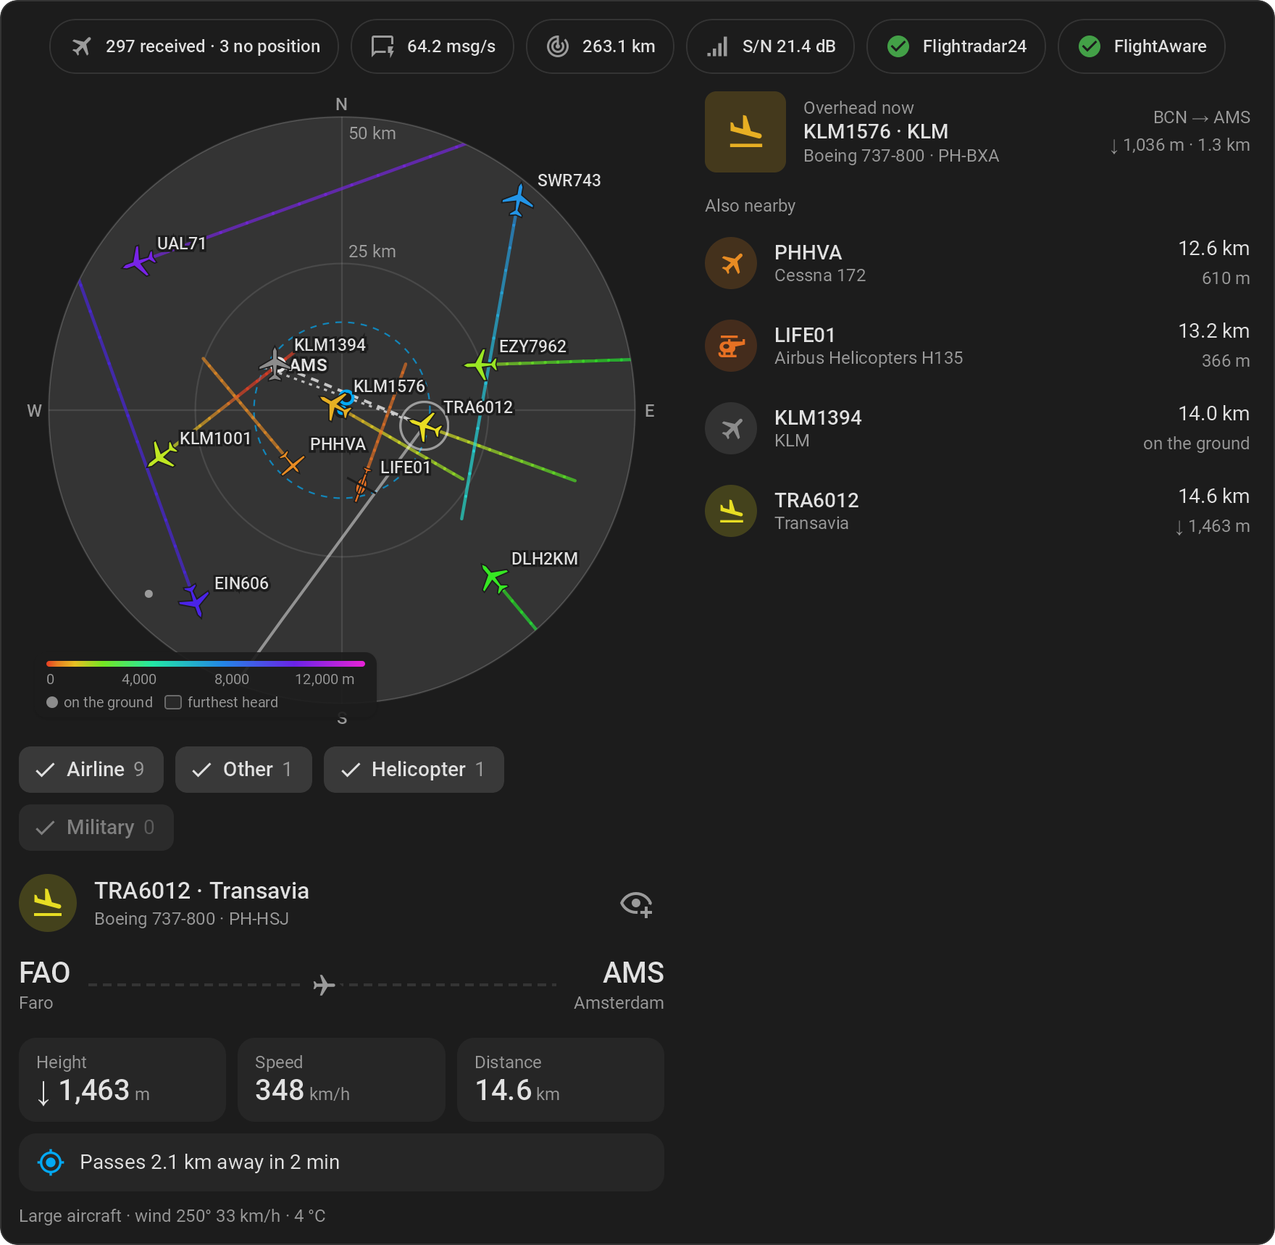
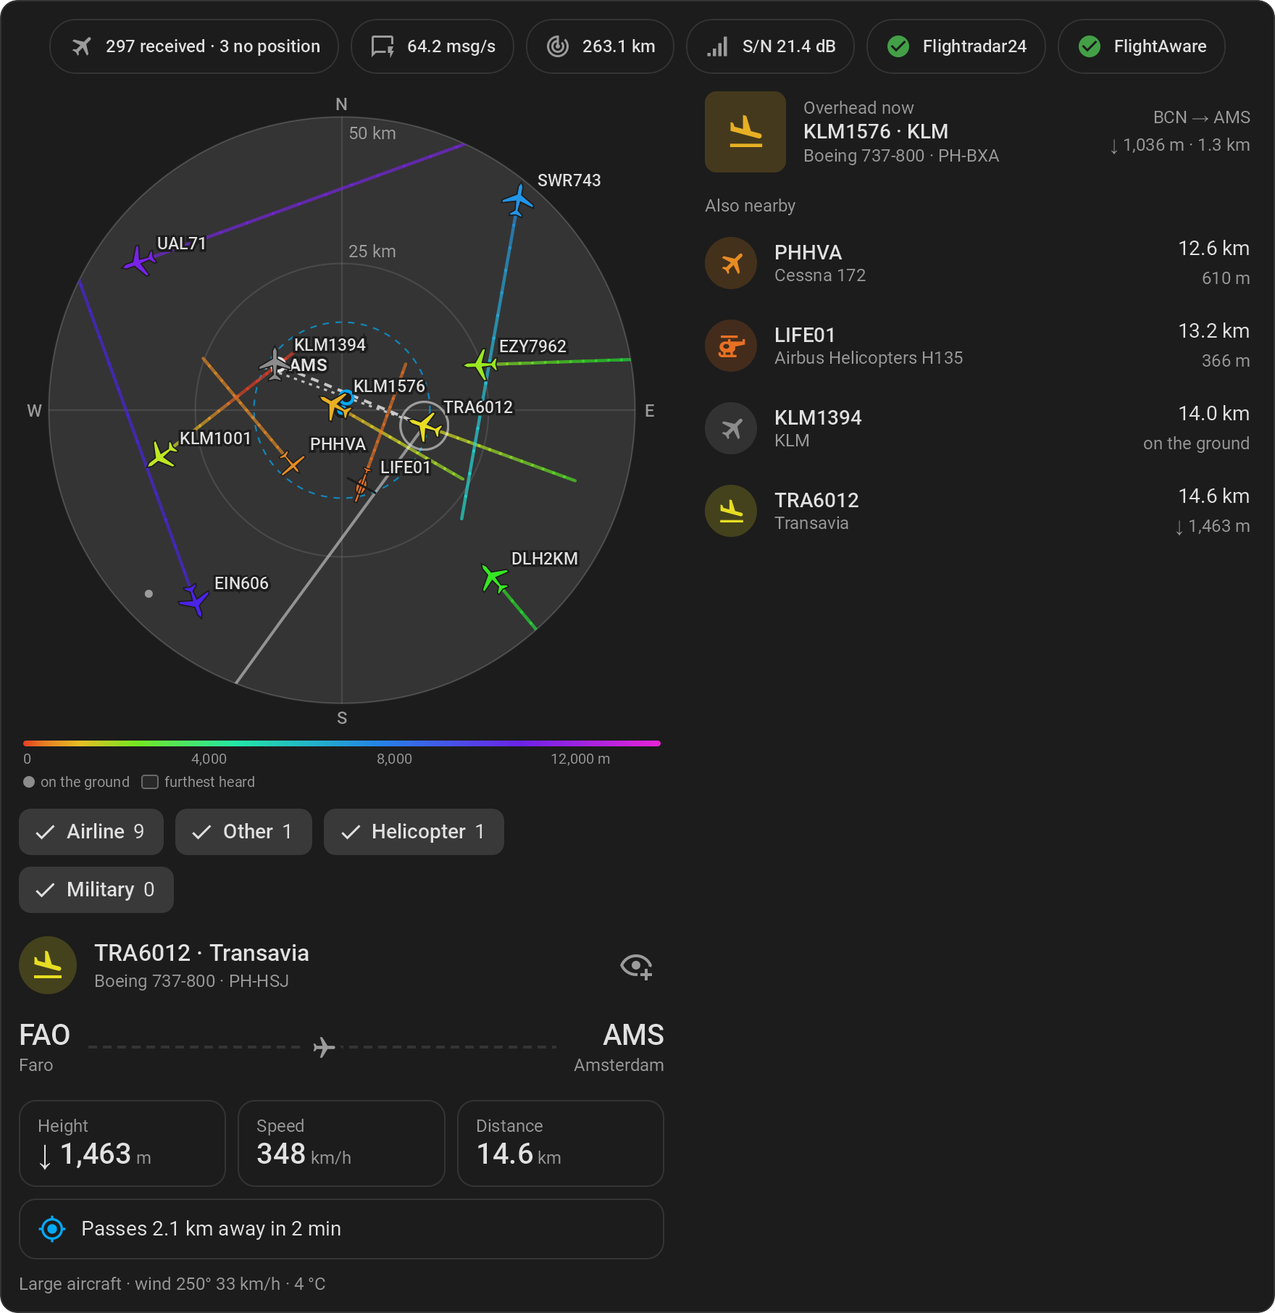
Finish the cards: contrast, the key on the radar, the passage window, the editor
- Contrast: a dimmed kind button and grey text on a grey fill fell
  short of the 4.5:1 text needs, measured in Home Assistant's default
  theme (1.7 to 4.4). A kind with none now looks as the others, its
  count lighter by weight only, and the figures of a tapped aircraft
  and how close it passes are outlined, as Home Assistant's badges.
- On the radar the key goes under the scope, which it covered; on a
  map it stays in the corner. On a phone the scale shows only its
  ends, as feet ran into each other.
- The window of a passage gets Home Assistant's round close button
  and its type sizes.
- The editor groups its options, as Home Assistant's own editors do,
  under Radar and map, and Aircraft and station; the config stays flat.

diff --git a/custom_components/adsb_station/frontend/adsb-station-card.js b/custom_components/adsb_station/frontend/adsb-station-card.js
@@ -65,6 +65,8 @@ const STRINGS = {
     radio_failure: "Emergency: radio failure",
     downed: "Emergency: downed",
     title: "Title",
+    section_map: "Radar and map",
+    section_below: "Aircraft and station",
     map: "Map",
     map_radar: "Radar",
     map_streets: "Map with streets",
@@ -158,6 +160,8 @@ const STRINGS = {
     radio_failure: "Noodgeval: radiostoring",
     downed: "Noodgeval: neergestort",
     title: "Titel",
+    section_map: "Radar en kaart",
+    section_below: "Toestellen en station",
     map: "Kaart",
     map_radar: "Radar",
     map_streets: "Landkaart",
@@ -765,39 +769,56 @@ class AdsbStationCard extends HTMLElement {
             },
           },
         },
+        // Grouped as Home Assistant's own editors group theirs, folded away.
         {
-          name: "map_scale",
-          selector: {
-            select: {
-              mode: "dropdown",
-              options: SCALES.map((value) => ({ value, label: text[`scale_${value}`] })),
+          type: "expandable",
+          name: "section_map",
+          icon: "mdi:radar",
+          flatten: true,
+          schema: [
+            {
+              name: "map_scale",
+              selector: {
+                select: {
+                  mode: "dropdown",
+                  options: SCALES.map((value) => ({ value, label: text[`scale_${value}`] })),
+                },
+              },
             },
-          },
-        },
-        {
-          name: "map_range",
-          selector: { number: { min: 5, max: 700, mode: "box" } },
-        },
-        {
-          name: "max_altitude",
-          selector: { number: { min: 100, max: 60000, step: 100, mode: "box" } },
-        },
-        {
-          name: "palette",
-          selector: {
-            select: {
-              mode: "dropdown",
-              options: PALETTES.map((value) => ({ value, label: text[`palette_${value}`] })),
+            {
+              name: "map_range",
+              selector: { number: { min: 5, max: 700, mode: "box" } },
             },
-          },
+            {
+              name: "max_altitude",
+              selector: { number: { min: 100, max: 60000, step: 100, mode: "box" } },
+            },
+            {
+              name: "palette",
+              selector: {
+                select: {
+                  mode: "dropdown",
+                  options: PALETTES.map((value) => ({ value, label: text[`palette_${value}`] })),
+                },
+              },
+            },
+            { name: "show_airports", selector: { boolean: {} } },
+          ],
         },
-        { name: "show_airports", selector: { boolean: {} } },
-        { name: "show_nearby", selector: { boolean: {} } },
         {
-          name: "max_nearby",
-          selector: { number: { min: 1, max: 20, mode: "box" } },
+          type: "expandable",
+          name: "section_below",
+          icon: "mdi:airplane",
+          flatten: true,
+          schema: [
+            { name: "show_nearby", selector: { boolean: {} } },
+            {
+              name: "max_nearby",
+              selector: { number: { min: 1, max: 20, mode: "box" } },
+            },
+            { name: "show_status", selector: { boolean: {} } },
+          ],
         },
-        { name: "show_status", selector: { boolean: {} } },
       ],
       computeLabel: (schema) => {
         const text = strings(window.__adsbStationHass);
@@ -1112,7 +1133,7 @@ class AdsbStationCard extends HTMLElement {
       ...[
         el(
           "div",
-          { class: "scope-box" },
+          { class: streets ? "scope-box on-map" : "scope-box" },
           this._radar(text, streets),
           this._legend(text),
           streets ? this._attribution() : null,
@@ -1707,7 +1728,7 @@ class AdsbStationCard extends HTMLElement {
         return el(
           "button",
           {
-            class: count ? "kind" : "kind none",
+            class: "kind",
             "aria-pressed": String(shown),
             onclick: () => {
               if (!this._hidden.delete(kind)) this._hidden.add(kind);
@@ -2356,7 +2377,11 @@ class AdsbStationCard extends HTMLElement {
           "div",
           { class: "passage-head" },
           el("div", { class: "primary", id: "passage-name" }, p.flight || p.hex, p.airline ? ` · ${p.airline}` : ""),
-          el("button", { class: "close", "aria-label": text.close, onclick: () => this._dialog.close() }, "×"),
+          el(
+            "button",
+            { class: "close", "aria-label": text.close, title: text.close, onclick: () => this._dialog.close() },
+            el("ha-icon", { icon: "mdi:close" }),
+          ),
         ),
         photo,
         el(
@@ -2732,12 +2757,10 @@ const STYLE = css`
     border-color: transparent;
     background: rgba(var(--rgb-primary-text-color, 33, 33, 33), 0.15);
   }
+  /* The count lighter by weight, not by colour: grey on the tint, or a
+     button at half strength, falls short of the contrast text needs. */
   .kind .count {
     font-weight: var(--ha-font-weight-normal, 400);
-    color: var(--secondary-text-color);
-  }
-  .kind.none {
-    opacity: 0.5;
   }
   .legend {
     position: absolute;
@@ -2758,6 +2781,20 @@ const STYLE = css`
     margin-top: 2px;
   }
   .legend .keys:empty {
+    display: none;
+  }
+  /* On the radar the key goes under the scope, which it would cover; on a
+     map it sits in the corner. */
+  .scope-box:not(.on-map) .legend {
+    position: static;
+    width: auto;
+    margin-top: var(--ha-space-2, 8px);
+    padding: 0;
+    background: none;
+    box-shadow: none;
+  }
+  /* On a phone only the ends of the scale: feet need more room than there is. */
+  .narrow .legend .ticks span:not(:first-child):not(:last-child) {
     display: none;
   }
   .legend .key {
@@ -2895,10 +2932,12 @@ const STYLE = css`
     gap: var(--ha-space-2, 8px);
     margin-top: var(--ha-space-4, 16px);
   }
+  /* Outlined, as Home Assistant's badges: grey text on a grey fill falls
+     short of the contrast text needs in a light theme. */
   .picked .stat,
   .picked .tip {
     border-radius: var(--ha-border-radius-lg, 12px);
-    background: rgba(var(--rgb-primary-text-color, 33, 33, 33), 0.05);
+    border: 1px solid var(--divider-color);
   }
   .picked .stat {
     padding: 10px var(--ha-space-3, 12px);
@@ -3184,14 +3223,26 @@ const STYLE = css`
     gap: 8px;
     margin-bottom: 8px;
   }
+  .passage-head .primary {
+    font-size: var(--ha-font-size-l, 16px);
+  }
+  /* Home Assistant's icon button: a round 40 pixels with the icon in it. */
   .passage .close {
+    flex: none;
+    display: grid;
+    place-items: center;
+    width: 40px;
+    height: 40px;
+    margin-inline-end: -8px;
     border: none;
+    border-radius: 50%;
     background: none;
     color: var(--secondary-text-color);
-    font-size: 1.6em;
-    line-height: 1;
-    padding: 4px 8px;
     cursor: pointer;
+    --mdc-icon-size: 24px;
+  }
+  .passage .close:hover {
+    background: rgba(var(--rgb-primary-text-color, 33, 33, 33), 0.08);
   }
   .passage-photo:empty {
     display: none;
@@ -3226,8 +3277,9 @@ const STYLE = css`
   .passage dl {
     display: grid;
     grid-template-columns: auto 1fr;
-    gap: 4px 16px;
-    margin: 12px 0 0;
+    gap: var(--ha-space-1, 4px) var(--ha-space-4, 16px);
+    margin: var(--ha-space-3, 12px) 0 0;
+    font-size: var(--ha-font-size-m, 14px);
   }
   .passage dt {
     color: var(--secondary-text-color);
@@ -3331,7 +3383,12 @@ class AdsbStationTableCard extends AdsbStationCard {
     };
     return {
       ...form,
-      schema: [...form.schema.filter((field) => ["device_id", "title", "palette"].includes(field.name)), list],
+      schema: [
+        ...form.schema
+          .flatMap((field) => field.schema || [field])
+          .filter((field) => ["device_id", "title", "palette"].includes(field.name)),
+        list,
+      ],
     };
   }
 

diff --git a/docs/nl/dashboards.md b/docs/nl/dashboards.md
@@ -41,7 +41,7 @@ Het deel **Vlucht overhead** is het toestel nu boven je, of het laatste, als zod
 
 De radar tekent elk toestel waarvan het station een positie heeft, niet alleen die dichtbij: elk als de omtrek van wat het is, een verkeersvliegtuig, een klein vliegtuig of een helikopter, gedraaid in de richting waarin het vliegt, in de kleur van zijn hoogte, met het spoor van de laatste vijf minuten erachter. Tussen twee uitlezingen vliegt elk toestel door langs zijn koers en met zijn snelheid, zodat de radar elke seconde beweegt zonder dat het station vaker wordt uitgelezen; de volgende uitlezing zet het terug waar het echt is. Laag is warm en hoog is koel, zodat een nadering in één oogopslag te onderscheiden is van een overvlucht; de legenda in de hoek van de radar zegt welke kleur welke hoogte is. Rood- en groenblinde ogen zien een deel van die hoogtes als één kleur; met `palette: colorblind` lopen ze in plaats daarvan van geel naar blauw. De gestippelde ring is de straal "dichtbij", en de grijze vorm is het verste dat het station ooit een toestel hoorde in elk van de acht windrichtingen: de vorm van wat je antenne kan zien, met een deuk waar een dak, een boom of een heuvel in de weg zit. Hij groeit mee met nieuwe records. Met readsb is de vorm die van de decoder zelf: de verste positie in elke graad over de laatste 24 uur, elke vijf minuten gelezen uit zijn `outline.json`, zodat een deuk precies laat zien waar hij zit. Omdat het om een dag gaat, krimpt hij op een rustige dag; de legenda zegt welke vorm je ziet. Tik op een toestel voor type, registratie, hoogte, snelheid en afstand, en, als de decoder ze doorgeeft, de klasse, het machgetal of de snelheid door de lucht, en de wind en temperatuur op zijn hoogte. Met [foto's](photos.md) aan wordt zijn foto opgezocht als je erop tikt en klein getoond in plaats van zijn icoon, met de fotograaf erbij en doorlinkend naar zijn pagina; tik op zijn naam voor de foto groot. Met een toetsenbord ga je met Tab van toestel naar toestel en kies je er een met Enter of spatie, zoals overal op de kaarten waar een tik iets doet; een schermlezer noemt elk toestel bij zijn callsign. Een toestel in nood heeft een rode ring, een van je [watchlist](watchlist.md) een ring in de accentkleur van je thema, en als je erop tikt staat erbij welke; een toestel dat er niet op staat heeft een knop **Op watchlist zetten**, die zijn registratie, of zonder registratie zijn hexcode, op de lijst zet; de tabelkaart markeert hun rijen op dezelfde manier. De luchthavens met lijnvluchten zijn kleine grijze stipjes met hun code, zodat je ziet waar de toestellen landen en opstijgen, elke code weggelaten waar hij een toestel of zijn roepnaam zou afdekken; reikt de radar verder dan 200 km, dan alleen de grote, en `show_airports: false` laat ze weg. Een aangetikt toestel in de lucht krijgt een stippellijn van vijf minuten vooruit langs zijn koers, en zolang het [jouw kant op komt](passages.md#voordat-het-er-is) een punt op die lijn waar het het dichtst langs komt, met hoe dichtbij en over hoe lang; het is een rechte lijn, dus een bocht klopt pas weer na de volgende uitlezing. Met [routes](routes.md) aan wordt ook zijn route getekend, langs de boog die een verkeersvliegtuig echt vliegt: doorgetrokken van waar het opsteeg tot waar het nu is, gestippeld door naar waar het landt. Voor een toestel buiten de straal "dichtbij" wordt de route opgezocht als je erop tikt, en dat kan tot dertig seconden duren; zolang dat loopt, staat dat op de kaart, en daarna of er geen route bekend is of het opzoeken mislukte. Tik na een mislukte poging twee keer op het toestel om het opnieuw te vragen: één keer om het los te laten, één keer om het weer te kiezen.
 
-De radar wordt door de kaart zelf getekend, dus hij heeft niets van buiten je netwerk nodig: geen kaarttegels, geen account. De buitenste ring past zich aan het verste toestel aan. Met `map_scale: coverage` telt hij ook de bereikrecords mee, zodat de hele vorm in beeld blijft, ten koste van kleinere toestellen rond het station; met `map_scale: fixed` blijft hij op `map_range` staan, zodat het beeld nooit verspringt. De toestellen bereiken de kaart via een abonnement zolang hij open is, en niets ervan wordt in de database geschreven. De integratie houdt de laatste vijf minuten van elk spoor in het geheugen bij, zodat een kaart die opengaat ze meteen tekent; een herstart van Home Assistant begint ze opnieuw. Een spoor gaat mee met zijn toestel: zodra het station er geen positie meer van heeft, verdwijnen ze allebei van de radar. Onder de radar zegt een knop per soort, lijnvlucht, overig, helikopter en militair zoals de verkeerstellers ze tellen, hoeveel er zijn; tik er een aan om die soort van de radar te halen, en nog eens om hem terug te zetten; een soort op de radar heeft een vinkje, een weggehaalde alleen een rand, zoals de filterknoppen van Home Assistant zelf, en een soort waarvan er nu geen zijn is gedimd. De badge van de ontvangen vliegtuigen bovenaan zet erbij hoeveel er **zonder positie** zijn, als die er zijn: wat wel ontvangen is maar niet getekend kan worden, toestellen die alleen via Mode S gehoord zijn en posities verder weg dan de zichtlijn toelaat, die de integratie als verkeerd gedecodeerd weglaat. De soorten en die samen tellen op tot de ontvangen vliegtuigen, tenzij `max_altitude` er een paar weglaat. Dat geldt tot de pagina opnieuw laadt; om iets vast weg te laten, stel je `max_altitude` in.
+De radar wordt door de kaart zelf getekend, dus hij heeft niets van buiten je netwerk nodig: geen kaarttegels, geen account. De buitenste ring past zich aan het verste toestel aan. Met `map_scale: coverage` telt hij ook de bereikrecords mee, zodat de hele vorm in beeld blijft, ten koste van kleinere toestellen rond het station; met `map_scale: fixed` blijft hij op `map_range` staan, zodat het beeld nooit verspringt. De toestellen bereiken de kaart via een abonnement zolang hij open is, en niets ervan wordt in de database geschreven. De integratie houdt de laatste vijf minuten van elk spoor in het geheugen bij, zodat een kaart die opengaat ze meteen tekent; een herstart van Home Assistant begint ze opnieuw. Een spoor gaat mee met zijn toestel: zodra het station er geen positie meer van heeft, verdwijnen ze allebei van de radar. Onder de radar zegt een knop per soort, lijnvlucht, overig, helikopter en militair zoals de verkeerstellers ze tellen, hoeveel er zijn; tik er een aan om die soort van de radar te halen, en nog eens om hem terug te zetten; een soort op de radar heeft een vinkje, een weggehaalde alleen een rand, zoals de filterknoppen van Home Assistant zelf. De badge van de ontvangen vliegtuigen bovenaan zet erbij hoeveel er **zonder positie** zijn, als die er zijn: wat wel ontvangen is maar niet getekend kan worden, toestellen die alleen via Mode S gehoord zijn en posities verder weg dan de zichtlijn toelaat, die de integratie als verkeerd gedecodeerd weglaat. De soorten en die samen tellen op tot de ontvangen vliegtuigen, tenzij `max_altitude` er een paar weglaat. Dat geldt tot de pagina opnieuw laadt; om iets vast weg te laten, stel je `max_altitude` in.
 
 Met `map: map` wordt dezelfde lucht op een kaart getekend: de silhouetten, de labels, de sporen en de dekkingsvorm, alles wat de radar tekent, alleen op een kaart in plaats van het radarscherm. De zoom volgt `map_scale`, net als bij de radar. De kaart wordt getekend uit de gegevens van OpenStreetMap, die Home Assistant sinds 2026.9 zelf doorgeeft, dezelfde waar zijn eigen kaart uit getekend wordt. De kaart tekent alleen wat helpt om een toestel te plaatsen: water, grenzen, hoofdwegen en de grotere plaatsen, in de kleuren van je thema, licht of donker, zodat de toestellen eruit springen. Een plaatsnaam valt nooit over een toestel, zijn roepnaam of de afstand bij een ring. Een oudere Home Assistant geeft die gegevens niet door; dan toont de kaart de gewone kaart van OpenStreetMap, rechtstreeks van OpenStreetMap, omgekeerd bij een donker thema. Anders dan de radar haalt dit wel iets van buiten je netwerk: de kaart van de omgeving van je station.
 

diff --git a/docs/en/dashboards.md b/docs/en/dashboards.md
@@ -41,7 +41,7 @@ The **Overhead flight** part is the aircraft above you now, or the last one, mar
 
 The radar draws every aircraft the station has a position for, not only the ones nearby: each as the outline of what it is, an airliner, a light aircraft or a helicopter, turned the way it flies, in the colour of its height, with the trail of the last five minutes behind it. Between two reads each aircraft flies on along its track at its speed, so the radar moves every second without reading the station any more often; the next read puts it back where it really is. Low is warm and high is cool, so an approach stands out from an overflight at a glance; the key in the corner of the radar says which colour is which height. Red and green blind eyes see some of those heights as one colour; with `palette: colorblind` they run from yellow to blue instead. The dashed ring is the nearby radius, and the shaded shape is the furthest the station has ever heard an aircraft in each of the eight compass directions: the shape of what your antenna can see, with a dent wherever a roof, a tree or a hill is in the way. It fills out as records are set. With readsb the shape is the decoder's own instead: the furthest position in every degree over the last 24 hours, read every five minutes from its `outline.json`, so a dent shows exactly where it is. Being a day, it shrinks on a quiet one; the legend says which shape you see. Tap an aircraft for its type, registration, height, speed and distance, and, where the decoder passes them on, its class, its Mach number or airspeed, and the wind and temperature at its height. With [photos](photos.md) switched on, its photo is asked for when you tap it and shown small in place of its icon, credited and leading to its page; tap its name for the photo large. With a keyboard, Tab goes from aircraft to aircraft and Enter or Space picks one, as anywhere on the cards where a tap does something; a screen reader names each one by its callsign. An aircraft in distress has a red ring, one on your [watchlist](watchlist.md) a ring in your theme's accent colour, and tapping it says which; one that is not on it has an **Add to watchlist** button, which puts its registration, or its hex code without one, on the list; the table card marks their rows the same way. The airports with scheduled flights are small grey dots with their code, so you see where the aircraft land and take off, each code left off where it would cover an aircraft or its callsign; with the radar reaching further than 200 km only the large ones, and `show_airports: false` leaves them off. A tapped aircraft in the air gets a dotted line five minutes ahead along its track, and while it is [coming your way](passages.md#before-it-gets-here) a point on that line where it passes closest, with how close and how long until then; it is a straight line, so a turn puts it out until the next read. With [routes](routes.md) switched on, its route is drawn as well, along the curve an airliner actually flies: solid from where it took off to where it is now, dashed on to where it lands. For an aircraft outside the nearby radius the route is looked up when you tap it, which can take up to thirty seconds; the card says so while it waits, and afterwards whether no route is known or the lookup failed. After a failed lookup, tap the aircraft twice to ask again: once to let go of it, once to pick it again.
 
-The radar is drawn by the card itself, so it needs nothing from outside your network: no map tiles, no account. Its outer ring snaps to the furthest aircraft. With `map_scale: coverage` it takes the range records into account too, so the whole shape stays in view at the cost of smaller aircraft near the station; with `map_scale: fixed` it stays at `map_range`, so the picture never shifts. The aircraft reach the card over a subscription while it is open, and nothing of them is written to the database. The integration keeps the last five minutes of every trail in memory, so a card that opens draws them straight away; a restart of Home Assistant starts them over. A trail goes with its aircraft: once the station no longer has a position for it, both leave the radar. Under the radar a button per kind, airline, other, helicopter and military as the traffic counters count them, says how many there are; tap one to take that kind off the radar, and again to bring it back; a kind on the radar has a tick, one taken off only an outline, as Home Assistant's own filter buttons, and one with none at the moment is dimmed. The badge of the aircraft received on top adds how many have **no position**, when there are any: what is received but cannot be drawn, aircraft heard over Mode S alone and positions further away than line of sight allows, which the integration drops as mis-decoded. The kinds and those add up to the aircraft received, unless `max_altitude` leaves some out. That lasts until the page reloads; to leave something out for good, set `max_altitude`.
+The radar is drawn by the card itself, so it needs nothing from outside your network: no map tiles, no account. Its outer ring snaps to the furthest aircraft. With `map_scale: coverage` it takes the range records into account too, so the whole shape stays in view at the cost of smaller aircraft near the station; with `map_scale: fixed` it stays at `map_range`, so the picture never shifts. The aircraft reach the card over a subscription while it is open, and nothing of them is written to the database. The integration keeps the last five minutes of every trail in memory, so a card that opens draws them straight away; a restart of Home Assistant starts them over. A trail goes with its aircraft: once the station no longer has a position for it, both leave the radar. Under the radar a button per kind, airline, other, helicopter and military as the traffic counters count them, says how many there are; tap one to take that kind off the radar, and again to bring it back; a kind on the radar has a tick, one taken off only an outline, as Home Assistant's own filter buttons. The badge of the aircraft received on top adds how many have **no position**, when there are any: what is received but cannot be drawn, aircraft heard over Mode S alone and positions further away than line of sight allows, which the integration drops as mis-decoded. The kinds and those add up to the aircraft received, unless `max_altitude` leaves some out. That lasts until the page reloads; to leave something out for good, set `max_altitude`.
 
 With `map: map` the same sky is drawn on a map under it: the outlines, the labels, the trails and the coverage, everything the radar draws, just on a map instead of the scope. Its zoom follows `map_scale` like the radar's. The map is drawn from OpenStreetMap's data, which Home Assistant serves itself since 2026.9, the same data its own map is drawn from. The card draws only what helps place an aircraft: water, borders, main roads and the larger places, in your theme's colours, light or dark, so the aircraft are what stands out. A place name never covers an aircraft, its callsign or the distance of a ring. An older Home Assistant does not serve that data; the card then shows OpenStreetMap's own map instead, straight from OpenStreetMap, inverted for a dark theme. Unlike the radar, this does fetch something from outside your network: the map of the area around your station.
 
